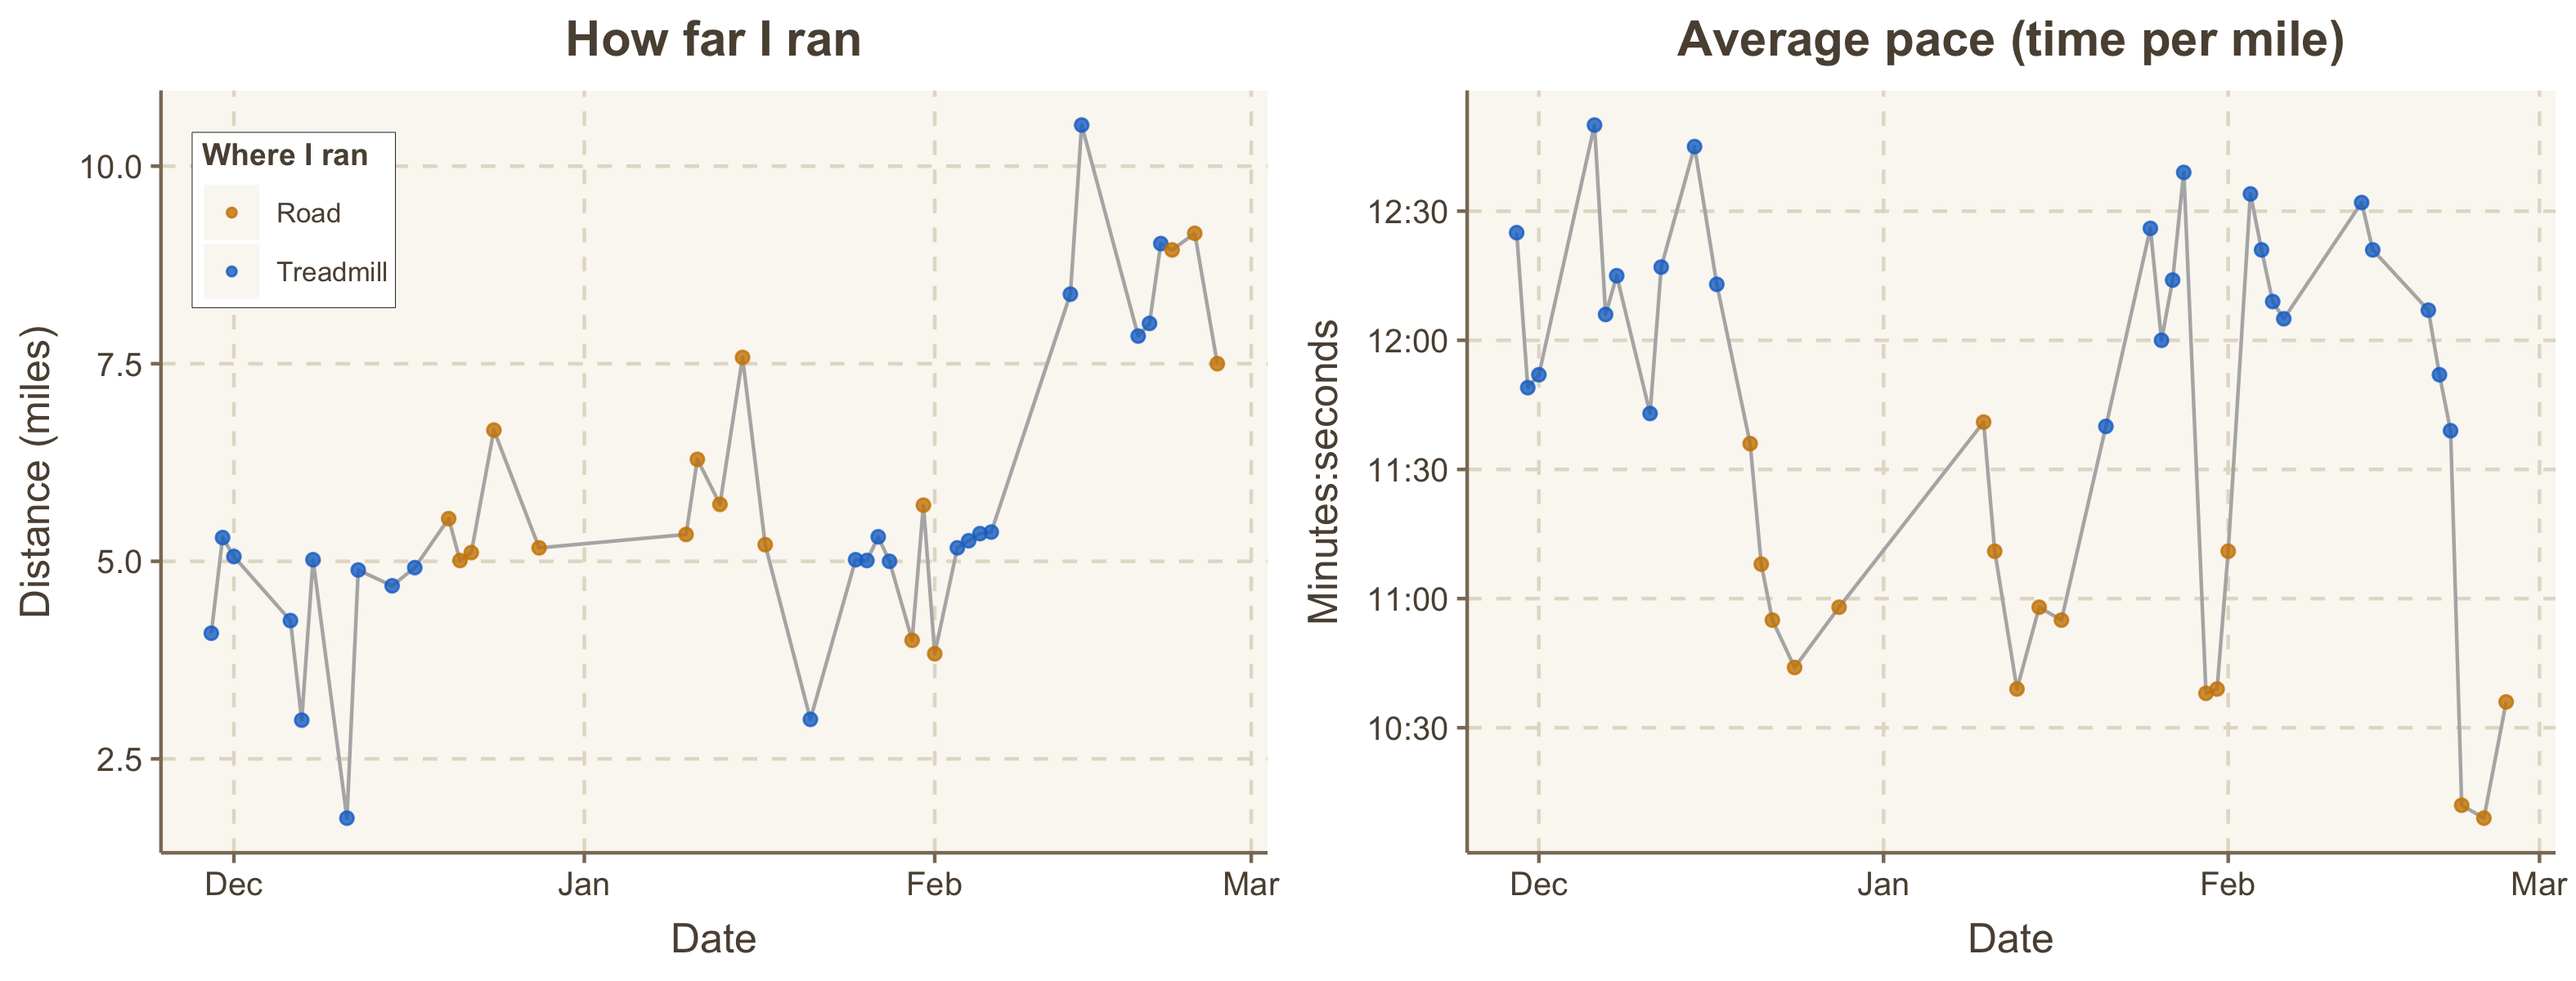
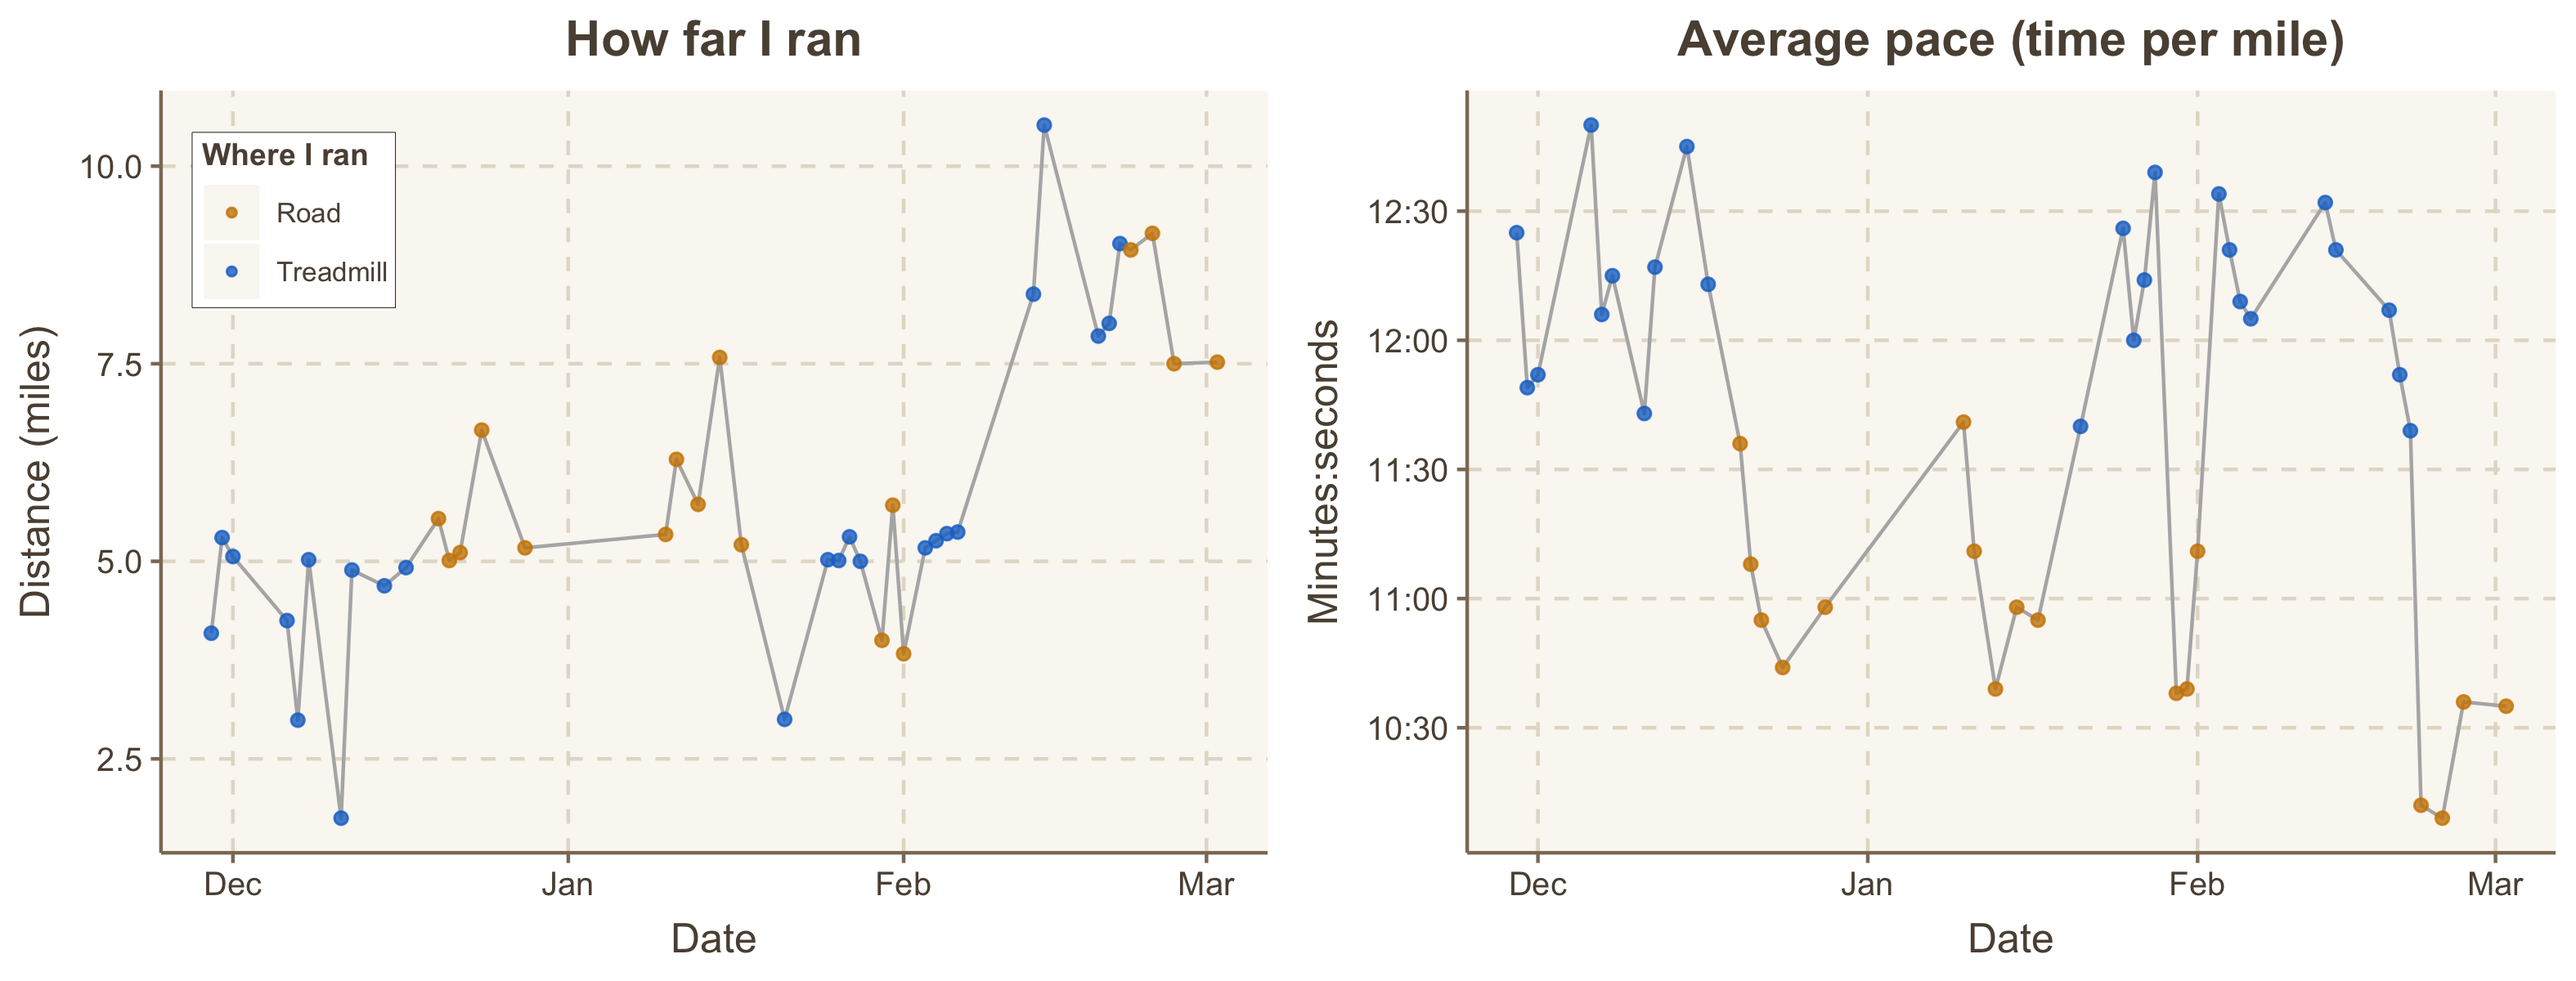
3/2/22

diff --git a/README.md b/README.md
@@ -25,7 +25,7 @@ ggarrange(p1, p2, nrow=1)
 sum(runningData$Miles)
 ```
 
-    ## [1] 227.99
+    ## [1] 235.51
 
 Average distance during the last 10 runs:
 
@@ -33,4 +33,4 @@ Average distance during the last 10 runs:
 mean(tail(runningData$Miles, 10))
 ```
 
-    ## [1] 8.009
+    ## [1] 8.226
